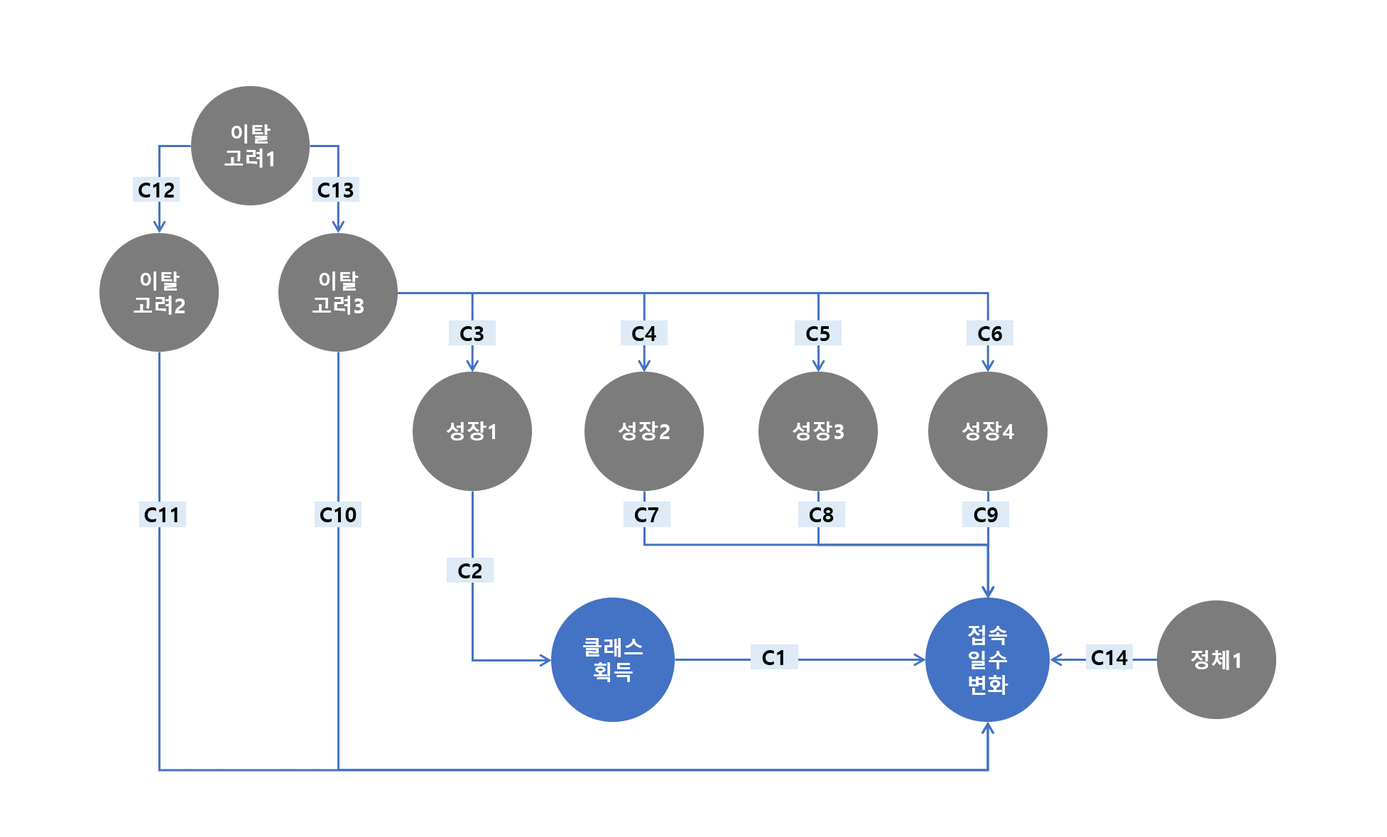
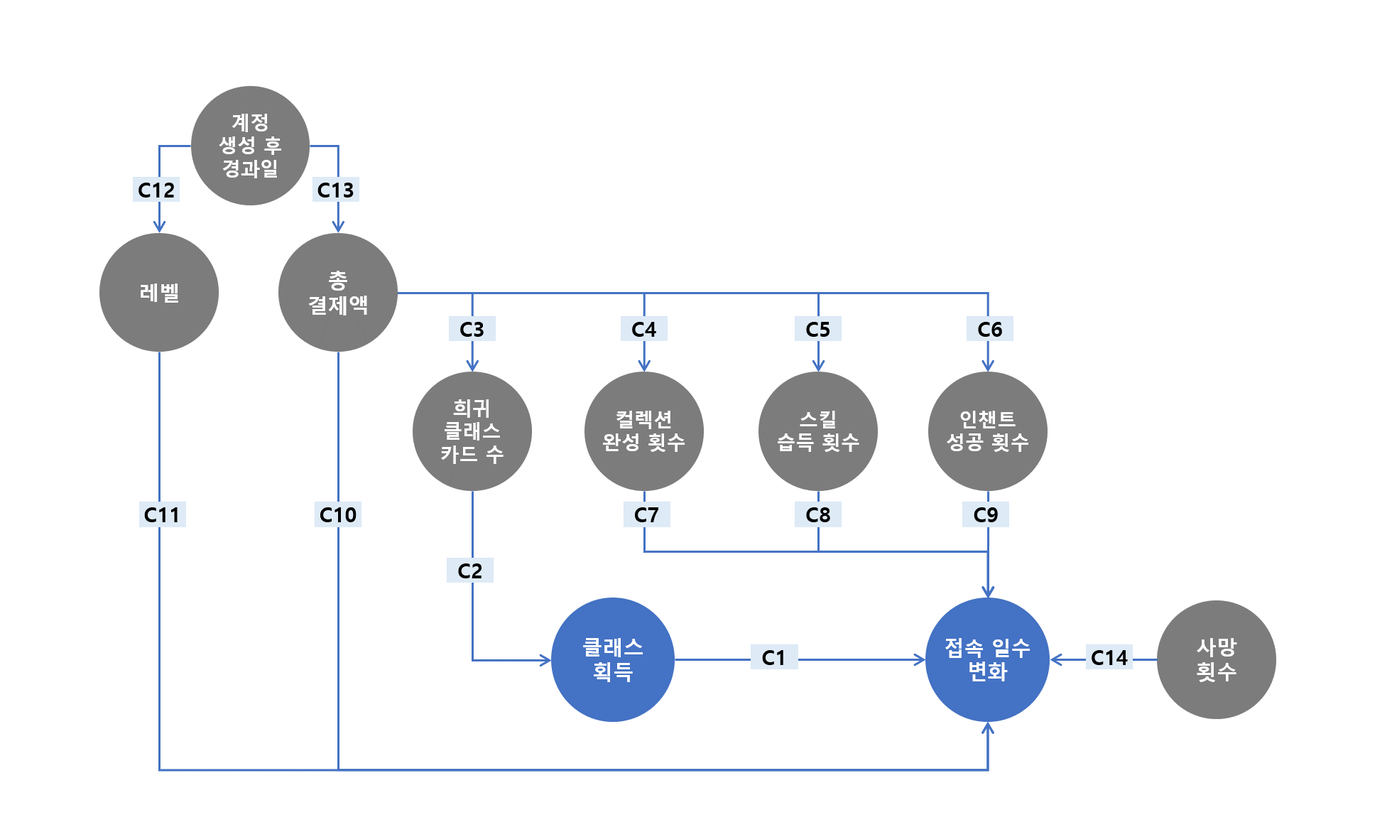
이미지 변경, 본문 변경

diff --git a/_posts/2021-05-10-class_get_causal_analysis.md b/_posts/2021-05-10-class_get_causal_analysis.md
@@ -13,9 +13,9 @@ cover: "/assets/l2m_cover.jpg"
 
  현실 경제에서 우리는 "어떤 큰 행운이 발생하였을 때, 그 이후 사람들은 더 열심히 생활하게 되는가?"라는 궁금증을 한번쯤은 가져보았을 것입니다. 로또에서 높은 금액에 당첨된 사람은 그 이후 더 열심히 사는가? 라는 주제가 적절한 예시인 것 같습니다. 다소 예전에 발간되었지만 "비근로로 얻은 소득(로또 당첨)이 이후 근로로 얻은 소득, 저축, 지출에 영향을 미치는가?"에 대한 주제를 다루는 논문이 있습니다. 해당 논문에서는 1980년대 중반에 매사추세츠에서 로또를 한 사람들을 대상으로 설문 조사를 실시한 결과, 당첨자들은 평균적으로 돈을 받은 이후 10년 안에 수령금의 84%를 다 쓴다는 결과가 나왔습니다. 
 
- 이러한 사례가 게임에서는 어떻게 나타날까라는 궁금증으로 주제를 찾아보던 중 NC SOFT의 대표적인 게임 중 리니지2M에 이와 유사한 경우가 있어 분석을 진행하게 되었습니다. 
+ 이러한 사례가 게임에서는 어떻게 나타날까라는 궁금증으로 주제를 찾아보던 중 NC SOFT의 대표적인 게임 중 유사한 경우가 있어 분석을 진행하게 되었습니다. 
 
- 분석 주제에 대한 이해를 위해 간략히 클래스 시스템에 대해 설명드리겠습니다. 리니지2M에서는 클래스 카드를 획득하고 캐릭터가 그 카드로 변신하여 플레이할 수 있는 시스템이 있습니다. 클래스 카드는 총 6개의 등급(일반, 고급, 희귀, 영웅, 전설, 신화)이 있으며, 영웅 등급 이상인 클래스부터 스탯, 속도, 스킬에 추가 효과를 주는 스킬 각성이 대폭 향상됩니다. 이러한 영웅 이상인 클래스의 특성 때문에 대부분 유저의 게임 초반 목표가 영웅 변신(주로 "영변"이라 부릅니다)일 정도로 이를 획득하는 것이 매우 중요합니다. 그리고, 이를 얻기 위해서는 많은 노력과 어느 정도의 운이 따라야 합니다. 
+ 분석 절차 및 결과 설명에 앞서 배경 이해를 위해 간략히 클래스 시스템이라는 것에 대해 설명드리겠습니다. 해당 게임에서는 클래스 카드를 획득하고 캐릭터가 그 카드로 변신하여 플레이할 수 있는 시스템이 있습니다. 클래스 카드는 총 6개의 등급(일반, 고급, 희귀, 영웅, 전설, 신화)이 있으며, 영웅 등급 이상인 클래스부터 스탯, 속도, 스킬에 추가 효과를 주는 스킬 각성이 대폭 향상됩니다. 이러한 영웅 이상인 클래스의 특성 때문에 대부분 유저의 게임 초반 목표가 영웅 변신(주로 "영변"이라 부릅니다)일 정도로 이를 획득하는 것이 매우 중요합니다. 그리고, 이를 얻기 위해서는 많은 노력과 어느 정도의 운이 따라야 합니다. 
 
 
 
@@ -24,7 +24,7 @@ cover: "/assets/l2m_cover.jpg"
 
 
 
- 로또까지는 아니지만 노력과 행운, 그리고 획득하였을 때 매우 큰 이점이 존재한다는 점을 고려하였을 때, "그렇다면 영웅/전설 클래스 획득이 유저의 플레이 행동 변화를 야기하는 원인이 될까?"라는 궁금증이 생겼고 분석할 가치가 있다고 판단하였습니다. 그래서, 본 포스팅에서는 리니지2M 대상 "최초 영웅/전설 클래스 획득"이 "플레이 변화"에 미치는 영향을 분석한 내용을 공유드리고자 합니다.
+ 로또까지는 아니지만 노력과 행운, 그리고 획득하였을 때 매우 큰 이점이 존재한다는 점을 고려하였을 때, "그렇다면 영웅/전설 클래스 획득이 유저의 플레이 행동 변화를 야기하는 원인이 될까?"라는 궁금증이 생겼고 분석할 가치가 있다고 판단하였습니다. 그래서, 본 포스팅에서는 "최초 영웅/전설 클래스 획득"이 "플레이 변화"에 미치는 영향을 분석한 내용을 공유드리고자 합니다.
 
 *(이하, 문장의 간결성을 위해 "최초 영웅/전설 클래스 획득 여부"를 "클래스 획득"이라고 하겠습니다)*
 
@@ -49,7 +49,7 @@ cover: "/assets/l2m_cover.jpg"
 
 ### confounder(교란 변수)
 
-<p><img src = "/assets/works/class_get_causal_analysis/image1.png" width="50%" /><br>[그림2] 원인 변수와 결과 변수에 동시에 영향을 주는 교란 변수</p>
+<p align="center"><img src = "/assets/works/class_get_causal_analysis/image1.png" width="50%" /><br>[그림2] 원인 변수와 결과 변수에 동시에 영향을 주는 교란 변수</p>
 
 
 
@@ -63,7 +63,7 @@ cover: "/assets/l2m_cover.jpg"
 
  그렇다면 교란 변수로 판단되는 가능한 많은 변수를 통제하여 인과 관계를 추정하면 될까요? 여기서 조심해야할 것이 있습니다. 원인 변수와 결과 변수의 영향을 동시에 받는 변수인 collider는 통제 대상에서 제외하여야 합니다. 원인 변수와 결과 변수의 영향을 동시에 받는 collider를 통제하면 이를 만족하는 원인 변수 값, 결과 변수 값을 가진 샘플들만 남게 됩니다. 이는 원인 변수, 결과 변수 간에 특정 종속 관계를 형성하고 최종적으로 분석 결과에 편향을 유발합니다. 이를 collider bias라고 부릅니다. 
 
-<p><img src = "/assets/works/class_get_causal_analysis/image2.png" width="50%" /><br>[그림3] 원인 변수와 결과 변수에 동시에 영향을 받는 collider</p>
+<p align="center"><img src = "/assets/works/class_get_causal_analysis/image2.png" width="50%" /><br>[그림3] 원인 변수와 결과 변수에 동시에 영향을 받는 collider</p>
 
 
 
@@ -107,29 +107,32 @@ cover: "/assets/l2m_cover.jpg"
 
  통제 변수 후보로는 원인 변수, 결과 변수에 영향을 미칠 것으로 예상되는 변수를 탐색하였습니다. 
 
- MMORPG 특성 상 유저는 성장 → 정체 → 이탈 고려 의 과정을 경험하는데, 각 과정마다 영웅/전설 클래스 획득과 플레이 변화에 영향을 미칠 것으로 예상되는 총 9개의 변수를 선정하였습니다. 원인 변수 측정 기간 최대 14일 전까지로 기간을 두어 집계하였습니다. 
+ MMORPG 특성 상 유저는 성장 → 정체 → 매몰 비용 의 과정을 경험하는데, 각 과정마다 영웅/전설 클래스 획득과 플레이 변화에 영향을 미칠 것으로 예상되는 총 9개의 변수를 선정하였습니다. 원인 변수 측정 기간 최대 14일 전까지로 기간을 두어 집계하였습니다. 
 
 * 성장 : 유저가 성장하는 재미를 느낄수록 향후 플레이가 증가할 것이다.
 * 정체 : 유저가 성장하지 못하고 정체해 있을수록 향후 플레이가 감소할 것이다.
-* 이탈 고려 : 게임에 오랜 시간을 투자했을수록 이탈 고려가 적을 것이다.
+* 매몰 비용 : 게임에 오랜 시간을 투자했을수록 향후 플레이 감소가 적을 것이다.
+
+|   구분    |        변수명         | 영향을 받을 것으로 예상되는 결과 변수 |
+| :-------: | :-------------------: | :-----------------------------------: |
+|   성장    |  희귀 클래스 카드 수  |          접속 일수, 결제금액          |
+|           |   컬렉션 완성 횟수    |               접속 일수               |
+|           |    스킬 습득 횟수     |               접속 일수               |
+|           |   인챈트 성공 횟수    |               접속 일수               |
+|           | 클래스 합성 성공 횟수 |               결제 금액               |
+|   정체    |       사망 횟수       |         접속 일수, 결제 금액          |
+| 매몰 비용 |  계정 생성 후 경과일  |               접속 일수               |
+|           |         레벨          |               접속 일수               |
+|           |     총 결제액(원)     |          접속 일수, 결제금액          |
 
 ## 2. 분석 기간 선정
 
- 분석 결과가 일부 기간에만 일시적으로 나타나는지 또는 여러 기간에 걸쳐 동일하게 나타나는지에 대한 재현성을 확인하기 위해 총 5개의 분석 기간을 선정하였습니다.
+ 분석 결과가 일부 기간에만 일시적으로 나타나는지 또는 여러 기간에 걸쳐 동일하게 나타나는지에 대한 재현성을 확인하기 위해 주요 클래스 업데이트 시점을 기준으로 총 5개의 분석 기간을 선정하였습니다.
 
- 주요 클래스 업데이트 시점을 분석 기간을 선택하는 기준으로 삼았는데, 그 이유는 주요 클래스 업데이트 이후 게임 내 클래스의 가치가 변할 것이고 이에 따라 클래스 획득이 플레이 변화에 미치는 인과 효과도 변할 것이라고 판단하였기 때문입니다.
+ 그 이유는 주요 클래스 업데이트 이후 게임 내 클래스의 가치가 변할 것이고 이에 따라 클래스 획득이 플레이 변화에 미치는 인과 효과도 변할 것이라고 판단하였기 때문입니다. 클래스 업데이트는 크게 두 종류로 나뉘었는데 클래스 업데이트 종류에 따라서도 인과 효과가 다르게 나타나는지 확인할 수 있을 것이라 판단하였습니다. 
 
- 클래스 업데이트는 신규 무기를 지닌 클래스 출시(대규모 업데이트), 기존 무기를 지닌 클래스 추가(비교적 소규모 업데이트) 두 종류로 나눌 수 있었습니다. 업데이트 규모를 나타내는 클래스 종류에 따라서도 인과 효과가 다르게 나타나는지 확인할 수 있을 것이라고 판단하였습니다. 
-
-|  no  | 원인 변수 측정 기간(7일 간) |      클래스 업데이트 종류 및 시점       |          클래스 업데이트 설명          |
-| :--: | :-------------------------: | :-------------------------------------: | :------------------------------------: |
-|  1   |   2020.07.08 ~ 2020.07.14   | 신규 무기 클래스 출시 (2020.06.24) 이후 |         신규 클래스 "창" 출시          |
-|  2   |   2020.10.14 ~ 2020.10.20   | 기존 무기 클래스 추가 (2020.10.13) 이후 |      전설 : 2개 / 영웅 : 4개 추가      |
-|  3   |   2020.12.09 ~ 2020.12.15   | 신규 무기 클래스 출시 (2020.11.25) 이후 |        신규 클래스 "대검" 출시         |
-|  4   |   2021.01.06 ~ 2021.01.12   | 신규 등급 클래스 출시 (2020.12.29) 이후 | 신화 클래스 및 무기를 획득한 유저 등장 |
-|  5   |   2021.02.10 ~ 2021.02.16   | 기존 무기 클래스 추가 (2021.01.25) 이후 |      전설 : 1개 / 영웅 : 3개 추가      |
-
-
+* 신규 무기를 지닌 클래스 출시(대규모 업데이트) : 2개의 분석 기간
+* 기존 무기를 지닌 클래스 추가(비교적 소규모 업데이트) : 3개의 분석 기간
 
 ## 3. 대상 선정
 
@@ -168,49 +171,63 @@ cover: "/assets/l2m_cover.jpg"
 
 ## 5. 인과 다이어그램을 통한 통제 변수 구성
 
- 이제 도메인 지식을 바탕으로 위에서 정의한 원인 변수, 결과 변수, 통제 변수 후보 간 인과 관계를 인과 다아어그램으로 표현합니다. 인과 다이어그램에서 노드는 변수를 의미하며, 화살표는 직접적인 인과 관계를 의미합니다. 화살표가 시작하는 노드는 원인, 화살표가 도착하는 노드는 결과입니다.
+ 이제 도메인 지식을 바탕으로 위에서 정의한 원인 변수, 결과 변수, 통제 변수 후보 간 인과 관계를 인과 다이어그램으로 표현합니다. 인과 다이어그램을 그리는 이유는 우리가 원하는 인과 효과를 추정하기 위해 교란 변수, collider를 규명하고 최종적으로 통제해야할 변수를 선정하기 위해서입니다. 
 
- 우리가 알고 싶은 인과 효과는 아래의 C1 엣지입니다. C1 엣지의 효과만을 추정하기 위해서는 C1 엣지를 제외한 원인 변수와 결과 변수를 연결하는 모든 엣지의 영향을 차단하여야 합니다. 이를 위해 아래 과정을 거쳐 통제 변수를 선정하고 최종적으로 모델에 반영하였습니다.
+##### 인과 다이어그램 요소
 
-1. 원인 변수, 결과 변수에 직접적인 영향을 주지 않는 인과 관계 무시
-2. 원인 변수 외에 결과 변수에 영향을 주는 인과 관계 통제
-3. collider 변수는 통제 변수에서 제외
+인과 다이어그램은 노드, 엣지 두 가지 요소로 구성됩니다. 노드는 위에서 정의한 변수를 의미하고 엣지는 노드 간 인과 관계를 의미합니다. 엣지가 출발하는 노드가 원인, 도착하는 노드가 결과입니다.  
+
+##### 인과 다이어그램 표현 방법
+
+이제 위에서 정의한 모든 변수 간에 인과 관계를 표시합니다. 예를 들어 "노드1이 원인이 되어 노드2가 증가 or 감소할 것이다"라는 인과 관계를 가정한다면 노드1 → 노드2로 화살표(엣지)로 연결해주면 됩니다. 인과 관계가 없다고 판단되는 노드끼리는 엣지로 연결하지 않습니다. 이것을 모든 노드 쌍에 대해 표시해주면 인과 다이어그램이 완성됩니다. 여기서 주의할 점은 인과 다이어그램 내에서 cycle이 존재하면 안된다는 것입니다. 
+
+* 예를 들어 노드1 → 노드2, 노드2 → 노드3, 노드3 → 노드1 인 관계가 존재하는 경우 노드1 → 노드2 → 노드3 → 노드1... 로 cycle이 생기게 됩니다.
+
+본 분석에서는 cycle을 방지하기 위해 변수의 집계 기간의 선후행 관계를 이용했습니다. 
+
+##### 인과 다이어그램을 이용한 최종 통제 변수 선정 절차
+
+우리가 알고 싶은 인과 효과(아래의 인과 다이어그램에서 C1을 의미)를 추정하기 위해서는 이를 제외한 외부 영향을 모두 차단하여야 합니다. 이를 위해 아래와 같이 3가지 단계를 거쳤습니다. 
+
+* step1) 원인 변수, 결과 변수에 직접적인 영향을 주지 않는 인과 관계 무시
+* step2) 원인 변수 외에 결과 변수에 영향을 주는 인과 관계 통제
+* step3) collider 변수는 통제 변수에서 제외
 
 ### 5-1. 접속 일수 변화 인과 다이어그램
 
-<p><img src = "/assets/works/class_get_causal_analysis/image4.png" width="70%" /><br>[그림5] 접속 일수 변화에 대한 인과 다이어그램</p>
+<p align="center"><img src = "/assets/works/class_get_causal_analysis/image4.png" width="70%" /><br>[그림5] 접속 일수 변화에 대한 인과 다이어그램</p>
 
-1번 조건
+**step1)**
 
 * 클래스 획득, 접속 일수 변화 노드에 연결되지 않는 엣지를 의미합니다(C3, C4, C5, C6, C12, C13)
-* 해당 엣지가 향하는 노드를 통제함으로써 해당 인과 관계를 무시할 수 있습니다.(성장1, 성장2, 성장3, 성장4, 이탈고려2, 이탈고려3 노드 통제)
+* 해당 엣지가 향하는 노드를 통제함으로써 해당 인과 관계를 무시할 수 있습니다.(희귀 클래스 카드 수, 컬렉션 완성 횟수, 스킬 습득 횟수, 인챈트 성공 횟수, 레벨, 총 결제액 노드 통제)
 
-2번 조건
+**step2)**
 
 * 접속 일수 변화 노드에 직접적으로 인과 영향을 미치는 클래스 획득을 제외한 노드입니다(C7, C8, C9, C10, C11, C14)
-* 해당 노드들은 측정하려는 인과효과(C1) 이외에 접속 일수 변화에 영향을 미치는 변수이므로 통제가 필요합니다(성장2, 성장3, 성장4, 이탈고려2, 이탈고려3, 정체1 노드 통제)
+* 해당 노드들은 측정하려는 인과효과(C1) 이외에 접속 일수 변화에 영향을 미치는 변수이므로 통제가 필요합니다(컬렉션 완성 횟수, 스킬 습득 횟수, 레벨, 총 결제액, 사망 횟수 노드 통제)
 
-3번 조건
+**step3)**
 
 * 클래스 획득, 접속 일수 변화 노드로부터 동시에 영향을 받는 노드를 의미합니다(없음)
 * 해당 변수는 위에서 설명한 collider이므로, 통제 변수에서 제외하여야 합니다.
 
-최종 통제 변수 선정
+**최종 통제 변수 선정**
 
 * 이제 최종적으로 통제해야 하는 변수를 선정합니다. 
-* 1번, 2번 조건에서 선정된 통제 변수 집합 중 collider(3번 조건)를 제외한 변수(성장1,성장2,성장3, 성장4, 이탈고려2, 이탈고려3, 정체1)
+* 1번, 2번 조건에서 선정된 통제 변수 집합 중 collider(3번 조건)를 제외한 변수(희귀 클래스 카드 수, 컬렉션 완성 횟수, 스킬 습득 횟수, 인챈트 성공 횟수, 레벨, 총 결제액, 사망 횟수)
 
 이제 인과 효과 추정을 위해 선정된 통제 변수를 포함하여 모델을 구성합니다. 본 분석에서는 원인 변수, 통제 변수를 독립 변수로 하고 결과 변수를 종속 변수로 하는 선형 회귀 모델을 사용하였습니다.
 
-* 접속 일수 변화 ~ 클래스 획득 여부 + 성장1 + 성장2 + 성장3 + 성장4 + 이탈고려2 + 이탈고려3 + 정체1
+* 접속 일수 변화 ~ 클래스 획득 여부 + 희귀 클래스 카드 수 + 컬렉션 완성 횟수 + 스킬 습득 횟수 + 인챈트 성공 횟수 + 레벨 + 총 결제액 + 사망 횟수
 
 ### 5-2. 결제 금액 변화 인과 다이어그램
 
-<p><img src = "/assets/works/class_get_causal_analysis/image5.png" width="60%" /><br>[그림6] 결제 금액 변화에 대한 인과 다이어그램</p>
+<p align="center"><img src = "/assets/works/class_get_causal_analysis/image5.png" width="60%" /><br>[그림6] 결제 금액 변화에 대한 인과 다이어그램</p>
 
 위의 방식과 마찬가지로 최종 통제 변수를 선정하여 모델을 설계하면 아래와 같습니다.
 
-* 결제 금액 변화 ~ 클래스 획득 여부 + 성장1 + 성장5 + 이탈고려3 + 정체1
+* 결제 금액 변화 ~ 클래스 획득 여부 + 희귀 클래스 카드 수 + 클래스 합성 성공횟수 + 총 결제액 + 사망 횟수
 
 ### 5-3. 유저 그룹 지표 상향  인과 다이어그램
 
@@ -218,24 +235,21 @@ cover: "/assets/l2m_cover.jpg"
 
  그리고 접속 일수 변화, 결제 금액 변화와 다르게 변수의 값이 binary type(0 또는 1)이므로 인과 효과 추정 시 로지스틱 회귀 모델을 사용하였습니다.
 
-* 유저 그룹 상향 여부 ~ 클래스 획득 여부 + 성장1 + 성장2 + 성장3 + 성장4 + 성장5 + 이탈고려2 + 이탈고려3 + 정체1
+* 유저 그룹 상향 여부 ~ 클래스 획득 여부 + 클래스 획득 여부 + 희귀 클래스 카드 수 + 클래스 합성 성공횟수 + 컬렉션 완성 횟수 + 스킬 습득 횟수 + 인챈트 성공 횟수 + 레벨 + 총 결제액 + 사망 횟수
 
 
 
 # **분석 결과**
 
- 다음은 실제로 모델을 fitting하여 인과 효과를 추정한 결과입니다. 5개의 분석 기간에서 영향은 조금씩 상이하나 전반적으로 "최초 영웅/전설 클래스 획득은 유저의 플레이 증가에 영향을 미친다"라는 결과가 나왔습니다. 그래서 아래의 결과는 클래스 업데이트 종류 하나씩 총 2개의 분석 기간에 대해서만 정리하였습니다. 
-
-* 신규 무기 클래스 출시 업데이트(대규모) 이후 기간 : 2020.07.08 ~ 2020.07.14
-* 기존 무기 클래스 추가 업데이트(소규모) 이후 기간 : 2020.12.09 ~ 2020.12.15
+ 다음은 실제로 모델을 fitting하여 인과 효과를 추정한 결과입니다. 5개의 기간에 대해 모두 분석을 진행한 결과 영향은 조금씩 상이하나 전반적으로 "최초 영웅/전설 클래스 획득은 유저의 플레이 증가에 영향을 미친다"라는 결과가 나왔습니다. 그래서 본 포스팅에서는 클래스 업데이트 종류별 대표 기간 하나에 대한 결과만 첨부하였습니다. 
 
  아래의 그래프는 클래스를 획득하지 못한 그룹(대조군) 대비 클래스를 획득한 그룹(실험군)의 결과 변수에 대한 차이의 평균 및 신뢰 구간을 나타냅니다. 이는 최초 영웅/전설 클래스를 획득이 결과 변수에 미치는 인과 효과이며 신뢰 구간에 0인 값이 포함되지 않는다면 인과 효과는 유의한 것으로 해석합니다.
 
 ### 5-1. 접속 일수 변화에 미치는 인과 효과 추정
 
-|       대규모 클래스 업데이트(2020.07.08 ~ 2020.07.14)        |       소규모 클래스 업데이트(2020.12.09 ~ 2020.12.15)        |
+|                 대규모 클래스 업데이트 이후                  |                 소규모 클래스 업데이트 이후                  |
 | :----------------------------------------------------------: | :----------------------------------------------------------: |
-| <img src = "/assets/works/class_get_causal_analysis/image6_1.png" alt="전후 30일 간 접속 일수 변화에 대한 인과 효과(2020.07.08 ~ 2020.07.14)" width="95%" /> | <img src = "/assets/works/class_get_causal_analysis/image6_2.png" alt="전후 30일 간 접속 일수 변화에 대한 인과 효과(2020.12.09 ~ 2020.12.15)" width="95%" /> |
+| <img src = "/assets/works/class_get_causal_analysis/image6_1.png" width="95%" /> | <img src = "/assets/works/class_get_causal_analysis/image6_2.png"width="95%" /> |
 
  모든 유저 그룹에서 최초 영웅/전설 클래스는 획득은 30일 간 플레이 증가에 유의한 영향을 미치는 것으로 나타납니다. 여기서 그룹 간 영향의 크기 차이가 존재하는데 그룹1에 비해 게임 참여도가 낮은 그룹2에 더 큰 영향을 미치는 것을 알 수 있습니다.
 
@@ -245,10 +259,10 @@ cover: "/assets/l2m_cover.jpg"
 
 ### 5-2. 결제 금액 변화에 미치는 인과 효과 추정
 
-| 구분   |       대규모 클래스 업데이트(2020.07.08 ~ 2020.07.14)        |       소규모 클래스 업데이트(2020.12.09 ~ 2020.12.15)        |
+| 구분   |                 대규모 클래스 업데이트 이후                  |                 소규모 클래스 업데이트 이후                  |
 | ------ | :----------------------------------------------------------: | :----------------------------------------------------------: |
-| 무과금 | <img src = "/assets/works/class_get_causal_analysis/image7_1.png" alt="전후 30일 간 결제 금액 변화에 대한 인과 효과(무과금, 2020.07.08 ~ 2020.07.14)"/> | <img src = "/assets/works/class_get_causal_analysis/image7_2.png" alt="전후 30일 간 결제 금액 변화에 대한 인과 효과(무과금, 2020.12.09 ~ 2020.12.15)"/> |
-| 과금   | <img src = "/assets/works/class_get_causal_analysis/image7_3.png" alt="전후 30일 간 결제 금액 변화에 대한 인과 효과(과금, 2020.07.08 ~ 2020.07.14)"/> | <img src = "/assets/works/class_get_causal_analysis/image7_4.png" alt="전후 30일 간 결제 금액 변화에 대한 인과 효과(과금, 2020.12.09 ~ 2020.12.15)"/> |
+| 무과금 | <img src = "/assets/works/class_get_causal_analysis/image7_1.png"/> | <img src = "/assets/works/class_get_causal_analysis/image7_2.png"/> |
+| 과금   | <img src = "/assets/works/class_get_causal_analysis/image7_3.png"/> | <img src = "/assets/works/class_get_causal_analysis/image7_4.png"/> |
 
  모든 유저 그룹에서 최초 영웅/전설 클래스 획득은 30일 간 결제 금액 증가에 유의한 영향을 미치는 것으로 나타납니다. 여기서 주목할 점은 무과금, 과금 그룹에 미치는 영향의 크기 차이입니다. 무과금 그룹보다 과금 그룹에서 결제 금액 변화에 대한 인과 효과가 큰 것을 알 수 있습니다. 
 
@@ -256,9 +270,9 @@ cover: "/assets/l2m_cover.jpg"
 
 ### 5-3. 유저 그룹 상향 여부에 미치는 인과 효과 추정
 
-|       대규모 클래스 업데이트(2020.07.08 ~ 2020.07.14)        |       소규모 클래스 업데이트(2020.12.09 ~ 2020.12.15)        |
+|                 대규모 클래스 업데이트 이후                  |                 소규모 클래스 업데이트 이후                  |
 | :----------------------------------------------------------: | :----------------------------------------------------------: |
-| <img src = "/assets/works/class_get_causal_analysis/image8_1.png" alt="4주 후 유저 그룹 상향 여부 확률에 대한 인과 효과(2020.07.08 ~ 2020.07.14)" width="95%"/> | <img src = "/assets/works/class_get_causal_analysis/image8_2.png" alt="4주 후 유저 그룹 상향 여부 확률에 대한 인과 효과(2020.12.09 ~ 2020.12.15" width="95%"/> |
+| <img src = "/assets/works/class_get_causal_analysis/image8_1.png" width="95%"/> | <img src = "/assets/works/class_get_causal_analysis/image8_2.png" width="95%"/> |
 
  사용한 로지스틱 회귀 모델에서 회귀 계수는 로그 오즈비를 나타지만 이를 그대로 사용하지 않고, 결과 해석에 편의를 위해 결과 변수가 1일 확률에 대한 원인 변수의 미분값을 이용해 marginal effect 를 구하였습니다. 즉, x축이 의미하는 것은 최초 영웅/전설 클래스 획득이 유저 그룹이 상향될 확률에 미치는 인과 효과를 의미합니다.
 
@@ -276,7 +290,7 @@ cover: "/assets/l2m_cover.jpg"
 
 즉, 분석 기법이 아무리 훌륭하여도 도메인 지식이 없다면 설계 단계부터 잘못되어 있을 가능성이 높고 결국 잘못된 분석 결과가 나올 수 있습니다. 그만큼 설계 부분에 많은 고민과 시간을 투자해야하는 것이 중요하다는 것을 느낄 수 있었습니다.
 
-앞으로 게임 컨텐츠나 이벤트가 유저의 플레이에 어떤 영향을 미치는지 분석을 진행해볼 예정입니다. 본 분석처럼 재미있는 주제로 찾아뵙도록 하겠습니다 :) 
+본 분석을 진행하며 클래스를 획득하였더라도 유저가 만족하지 않는 경우 플레이 변화가 다르게 나타나지 않을까? 라는 궁금증이 생겼습니다. 그래서 2탄으로는 "최초 획득한 영웅/전설 클래스에 대한 만족도는 플레이 변화에 영향을 미칠까?"라는 주제로 분석한 내용을 공유드리려 합니다 :) 
 
 
 
